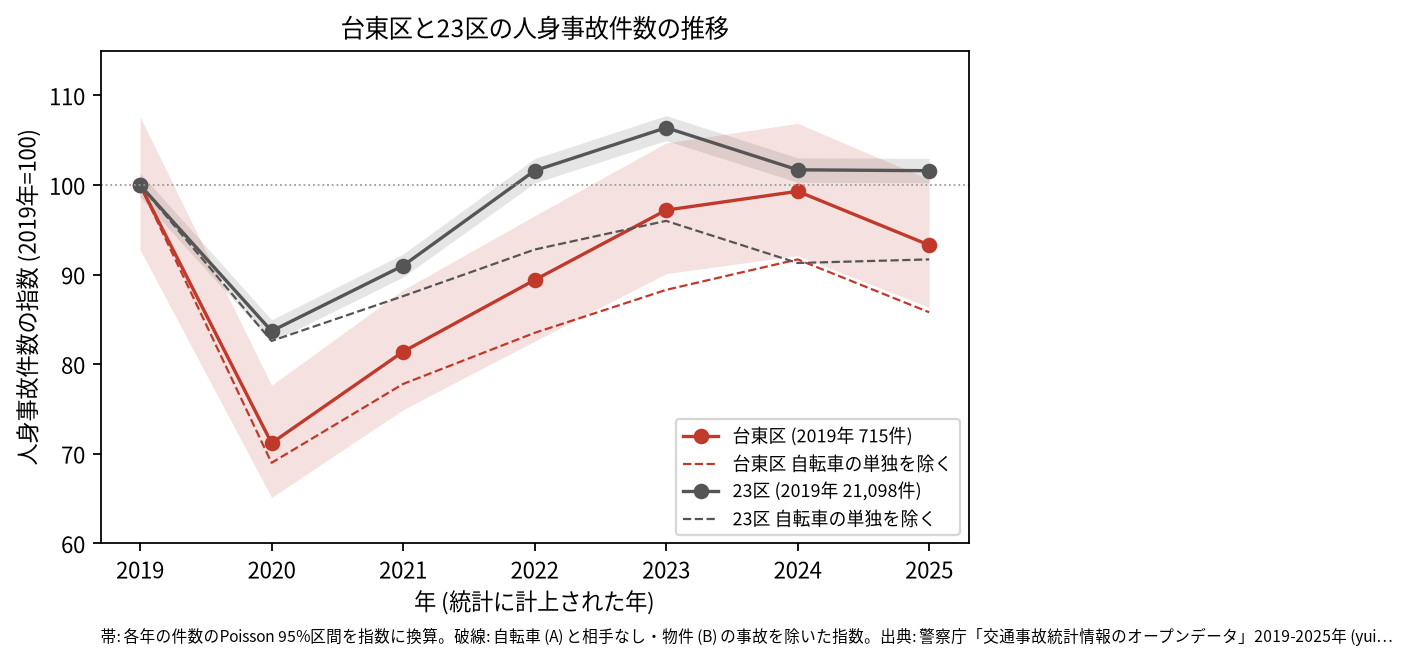
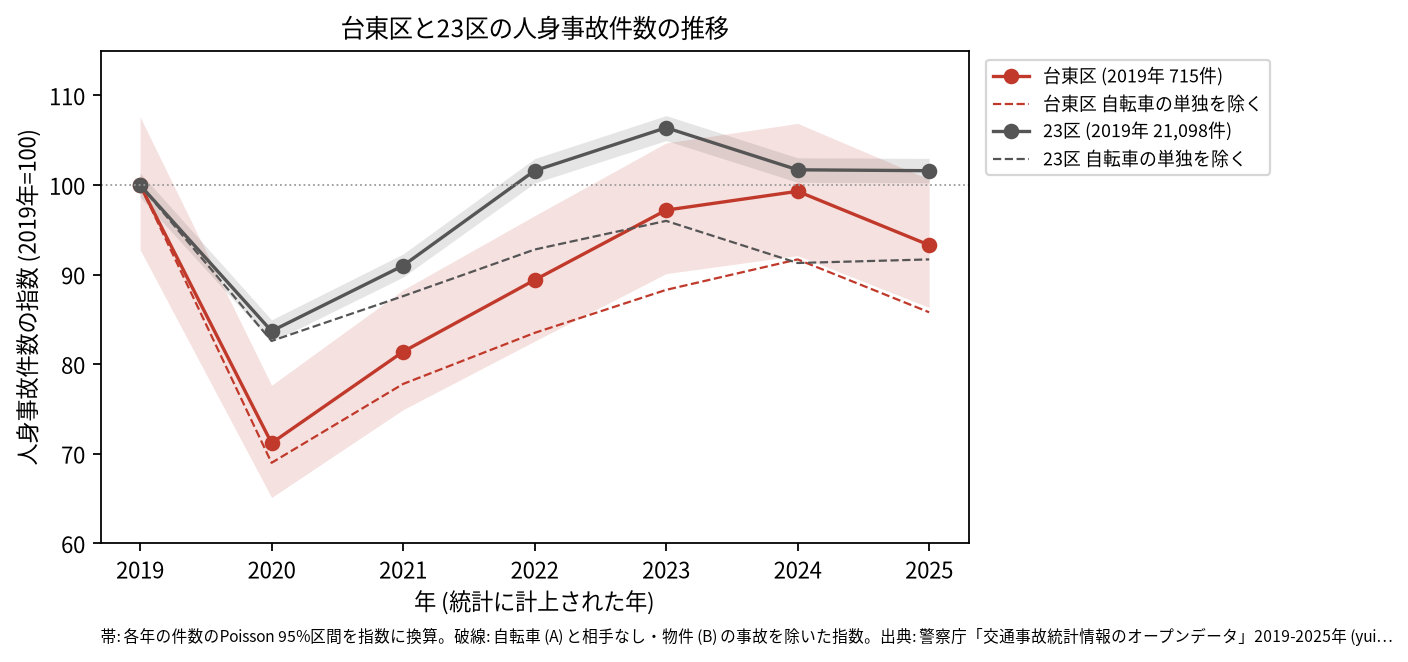
Taito template: legend outside the trend, first of several OSM names, no trailing parenthesis
Claude-Session: https://claude.ai/code/session_01NkWLXtsKgqQGFwWTBKgPox

Changed region(s): [[0.6875, 0.0906, 0.9062, 0.2719], [0.4688, 0.6344, 0.6875, 0.8157]]

diff --git a/projects/_traffic_accident/taito-accident-trends-by-role/scripts/analyze.py b/projects/_traffic_accident/taito-accident-trends-by-role/scripts/analyze.py
@@ -429,7 +429,9 @@ def main():
     # B5 hotspots: greedy non-overlapping 30 m circles, and the 20 m / 50 m readings.
     # A name with the English in parentheses is the same road as the name without it (Itabashi's
     # 山手通り (Yamate-dori Avenue) beside 山手通り): the parenthesis is dropped before names are compared.
-    road_names = con.execute(f"""select regexp_replace(name, '\\s*\\([A-Za-z][^)]*\\)$', ''), ST_AsWKB(ST_Transform(ST_GeomFromWKB(geometry), 'OGC:CRS84', 'EPSG:6677'))
+    # OSM can also hold several names joined by ';' (Setagaya's 梅丘通り;主要生活道路405号線), and a former name
+    # in Japanese parentheses (世田谷観音通り(旧 明薬通り)): the first name, without any trailing parenthesis.
+    road_names = con.execute(f"""select regexp_replace(split_part(name, ';', 1), '\\s*[(（][^)）]*[)）]$', ''), ST_AsWKB(ST_Transform(ST_GeomFromWKB(geometry), 'OGC:CRS84', 'EPSG:6677'))
         from '{ART / 'roads.parquet'}' where name is not null and highway not in ('motorway', 'motorway_link')""").fetchall()
     con.sql("create table rn as select * from (values (null::varchar, null::blob)) t(name, g) where false")
     con.executemany("insert into rn values (?, ?)", road_names)

diff --git a/projects/_traffic_accident/taito-accident-trends-by-role/scripts/plot.py b/projects/_traffic_accident/taito-accident-trends-by-role/scripts/plot.py
@@ -191,7 +191,8 @@ def fig_trend():
     ax.set_ylim(*ylim)
     ax.set_xlabel("年 (統計に計上された年)")
     ax.set_ylabel("人身事故件数の指数 (2019年=100)")
-    ax.legend(loc="lower right", fontsize=8)
+    # Outside the axes: inside, it hid the 2025 end of a ward whose line fell (Setagaya's 76.8).
+    ax.legend(loc="upper left", bbox_to_anchor=(1.01, 1.0), fontsize=8)
     ax.set_title(f"{WARD_NAME}と23区の人身事故件数の推移", fontsize=11)
     ax.text(0, -0.2, "帯: 各年の件数のPoisson 95%区間を指数に換算。破線: 自転車 (A) と相手なし・物件 (B) の事故を除いた指数。"
             + SOURCE[:40] + "…", transform=ax.transAxes, fontsize=7)

diff --git a/projects/_traffic_accident/taito-accident-trends-by-role/EXPERIMENT_TRACKER.md b/projects/_traffic_accident/taito-accident-trends-by-role/EXPERIMENT_TRACKER.md
@@ -24,3 +24,4 @@
 | R020 | B5 | exploratory | done | outputs/route_class.csv, outputs/analysis.json, outputs/hotspots.csv | 杉並区と練馬区の報告から型を直した (2026-11-03)。`路線コード` 4000〜4999 (高速自動車国道: 中央道、東名、関越、外環) を「その他」から分けて区分にし、高速道路を除く読み方と hotspots.csv と towns.csv の `expressway` を 4000〜5499 (高速票のある路線) にした。練馬区の 1 位の地点は 37 件とも 4000 番台で、首都高速だけを除く読み方では残っていた。「その他」の路線コードの内訳を analysis.json に出す (`other_route_codes`) | 台東区に 4000 番台は無く、CSV は前と同じ。「その他」は 9500 が 96 件、9900 が 18 件 |
 | R021 | - | exploratory | done | outputs/deaths.csv, outputs/summary.txt | 港区の報告から型を直した (2026-11-03)。deaths.csv に路線コードと高速道路かどうかを足し、summary.txt に死亡事故の当事者 A × B の数と高速道路の上の件数を出す | 台東区の死亡事故 16 件のうち高速道路の上は 0 件 |
 | R022 | B5 | exploratory | done | outputs/analysis.json, outputs/hotspots-map.png | 千代田区の報告から型を直した (2026-11-03)。拡大図の範囲は、長い辺が短い辺の 1.6 倍を超えないように短い辺を広げる (`widen`、千代田区の拡大図は 2.2 km × 0.7 km で小さく、北の矢印が枠にかかった)。高速道路の路線コードごとの件数を analysis.json に出す (`expressway_route_codes`)。テストのコマンドに shapely と matplotlib を足した (widen のテストが plot.py を読むため) | 台東区の拡大図は範囲の内なので図は前と同じ。高速道路は 5008 が 5 件、5007 が 3 件 |
+| R023 | B1、B5 | exploratory | done | outputs/trend-index.png, outputs/hotspots.csv | 世田谷区の報告から型を直した (2026-11-03)。推移の図の凡例を軸の外に置く (世田谷区で 2025 年の破線の端を隠した)。道路の名前は ';' で並んだ最初の名前を取り、日本語の括弧書きも外す (世田谷区の 梅丘通り;主要生活道路405号線、世田谷観音通り(旧 明薬通り)) | 台東区の CSV は前と同じ。推移の図は凡例の位置だけが変わった |
